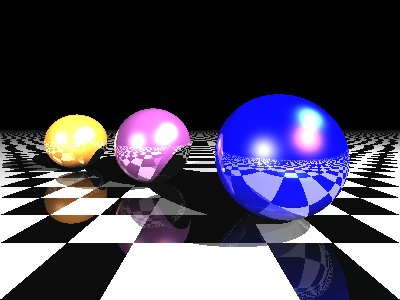
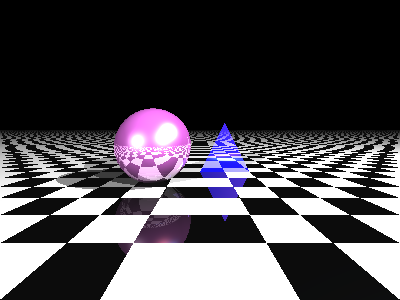
parte dos

Changed region(s): [[0.0, 0.3, 0.9, 1.0], [0.3, 0.66, 0.33, 0.69], [0.27, 0.69, 0.3, 0.72]]

diff --git a/raytracing.py b/raytracing.py
@@ -18,7 +18,7 @@ OUT OF OR IN CONNECTION WITH THE SOFTWARE OR THE USE OR OTHER DEALINGS IN THE
 SOFTWARE.
 """
 
-
+from math import dist
 import numpy as np
 import matplotlib.pyplot as plt
 
@@ -60,17 +60,60 @@ def intersect_sphere(O, D, S, R):
             return t1 if t0 < 0 else t0
     return np.inf
 
+
+def intersect_triangle(O, D, P, N):
+    # comprobacion intersecciones
+    dist = intersect_plane(0, D, np.array(P[0]), N)
+    
+    if (dist == np.inf):
+        return np.inf
+            
+    a = -np.dot(N,(O-P[0]))
+    b = np.dot(N,D)
+
+    di = a / b
+    I = O + D*di
+
+    # vectores      
+    v0 = np.subtract(P[1],P[0])
+    v1 = np.subtract(P[2],P[0])
+    v2 = I - P[0]
+
+    # producto vectores
+    v00 = np.dot(v0, v0)
+    v01 = np.dot(v0, v1)
+    v11 = np.dot(v1, v1)
+    v20 = np.dot(v2,v0)
+    v21 = np.dot(v2,v1)
+    
+
+    inter = v01 * v01 - v00 * v11 
+
+    prod1 = (v01 * v21 - v11 * v20) / inter
+    prod2 = (v01 * v20 - v00 * v21) / inter
+    
+    # comprobacion triangulo
+    if (prod1 >= 0) and (prod2 >= 0) and (prod1 + prod2 < 1):
+        return dist
+
+    return np.inf
+
+
 def intersect(O, D, obj):
     if obj['type'] == 'plane':
         return intersect_plane(O, D, obj['position'], obj['normal'])
     elif obj['type'] == 'sphere':
         return intersect_sphere(O, D, obj['position'], obj['radius'])
+    elif obj['type'] == 'triangle':
+        return intersect_triangle(O, D, obj['position'], obj['normal'])
 
 def get_normal(obj, M):
     # Find normal.
     if obj['type'] == 'sphere':
         N = normalize(M - obj['position'])
     elif obj['type'] == 'plane':
+        N = obj['normal']
+    elif obj['type'] == 'triangle':
         N = obj['normal']
     return N
     
@@ -100,23 +143,22 @@ def trace_ray(rayO, rayD):
     
     # Start computing the color.
     col_ray = ambient
-   
+    color = get_color(obj, M)
     light = 0
 
-    for light in range(len(lights)):
-        color = get_color(obj, M)
+    for light in range(len(lights)):      
         toL = normalize(lights[light] - M)
         toO = normalize(O - M)
         # Shadow: find if the point is shadowed or not.
         l = [intersect(M + N * .0001, toL, obj_sh) 
                 for k, obj_sh in enumerate(scene) if k != obj_idx]
-        if l and min(l) < np.inf:
-            break
-        # Lambert shading (diffuse).
-        col_ray += obj.get('diffuse_c', diffuse_c) * max(np.dot(N, toL), 0) * color
-        # Blinn-Phong shading (specular).
-        col_ray += obj.get('specular_c', specular_c) * max(np.dot(N, normalize(toL + toO)), 0) ** specular_k * color_lights[light]
+        if l and min(l) >= np.inf:
+            # Lambert shading (diffuse).
+            col_ray += obj.get('diffuse_c', diffuse_c) * max(np.dot(N, toL), 0) * color
+            # Blinn-Phong shading (specular).
+            col_ray += obj.get('specular_c', specular_c) * max(np.dot(N, normalize(toL + toO)), 0) ** specular_k * color_lights[light]
     return obj, M, N, col_ray
+
 
 def add_sphere(position, radius, color):
     return dict(type='sphere', position=np.array(position), 
@@ -128,14 +170,20 @@ def add_plane(position, normal):
         color=lambda M: (color_plane0 
             if (int(M[0] * 2) % 2) == (int(M[2] * 2) % 2) else color_plane1),
         diffuse_c=.75, specular_c=.5, reflection=.25)
+
+def add_triangle(position, color):
+    n1 = np.subtract(position[1],position[0])
+    n2 = np.subtract(position[2],position[0])
+    return dict(type='triangle', position=(position), 
+        color=np.array(color), reflection=.5,normal = (np.cross(n1,n2)))
     
 # List of objects.
 color_plane0 = 1. * np.ones(3)
 color_plane1 = 0. * np.ones(3)
-scene = [add_sphere([.75, .1, 1.], .6, [0., 0., 1.]),
-         add_sphere([-.75, .1, 2.25], .6, [.5, .223, .5]),
-         add_sphere([-2.75, .1, 3.5], .6, [1., .572, .184]),
-         add_plane([0., -.5, 0.], [0., 1., 0.]),
+scene = [
+    add_triangle([[0.,-0.5,3.],[0.5,0.5,3.],[1.,-0.5,3.]],[0.,0.,1.]),
+     add_sphere([-.75, .1, 2.25], .6, [.5, .223, .5]),
+    add_plane([0., -.5, 0.], [0., 1., 0.]),
     ]
 
 
